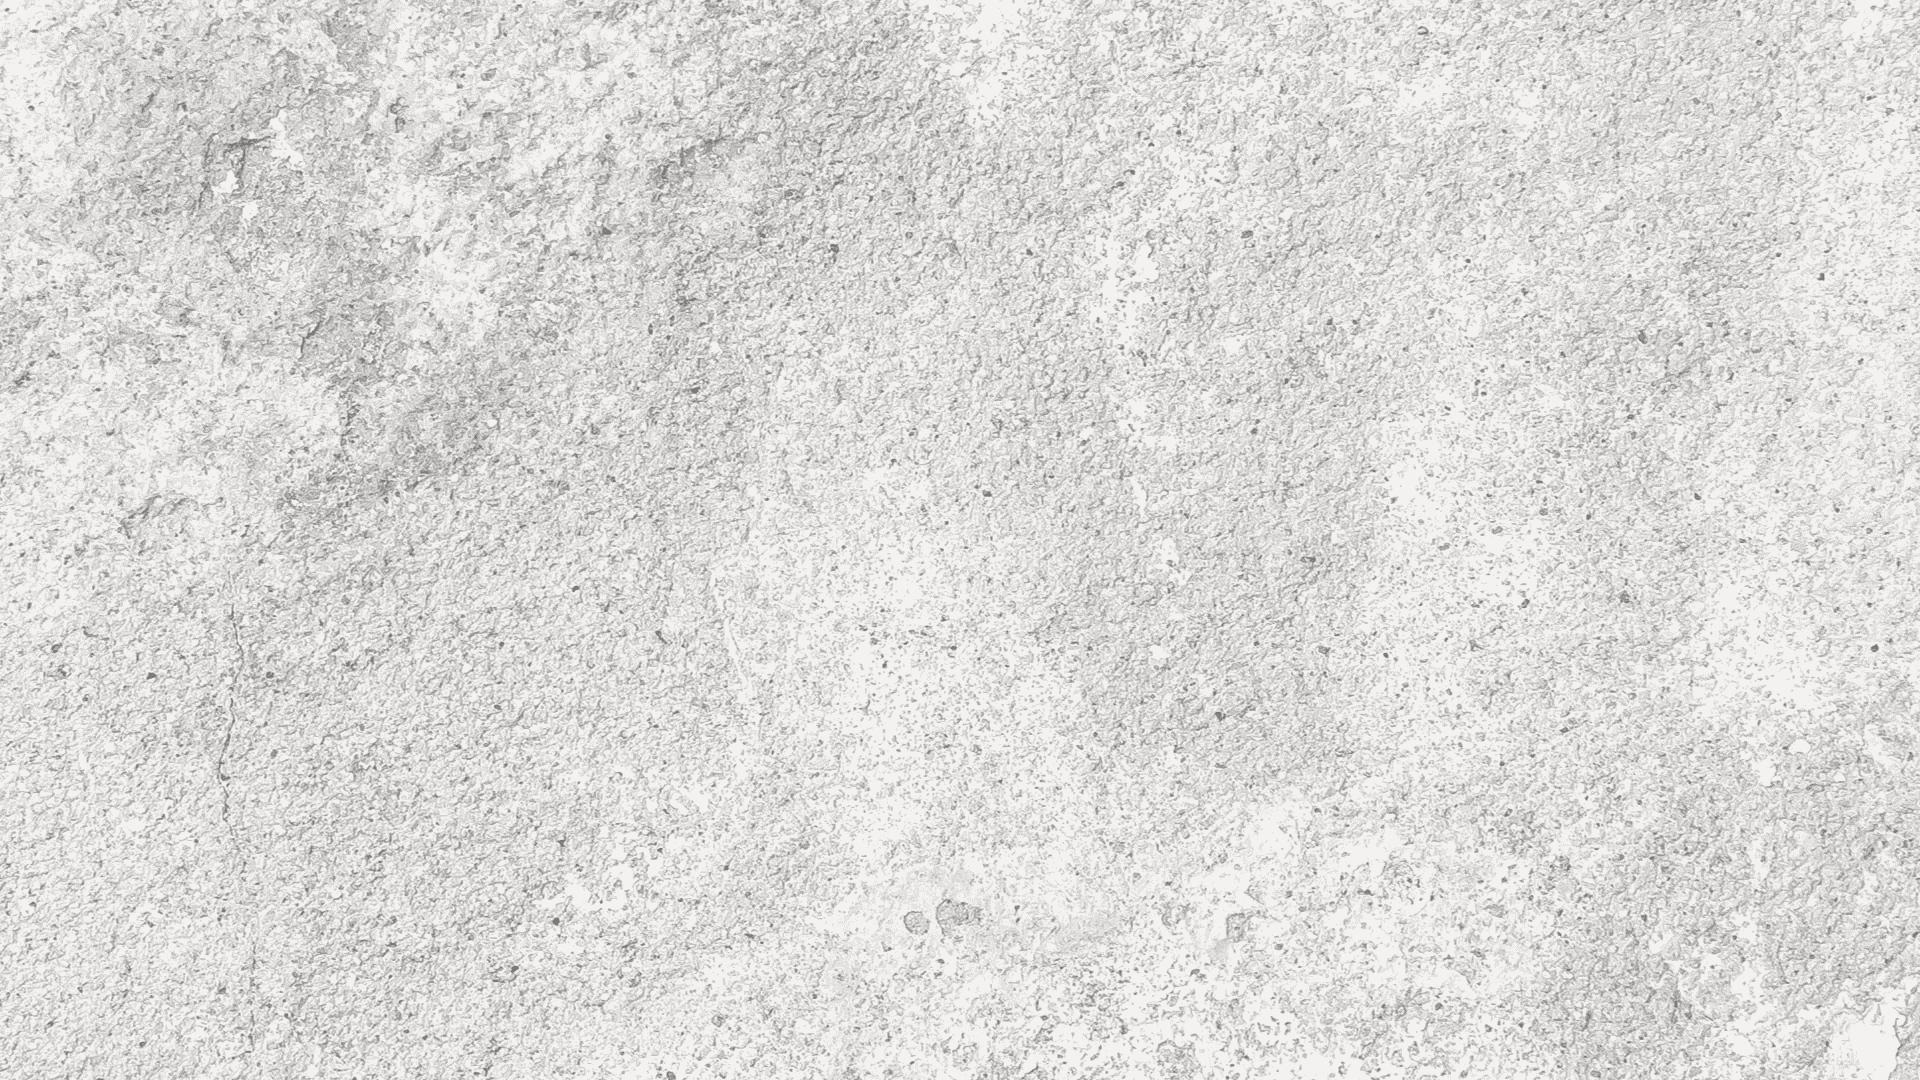
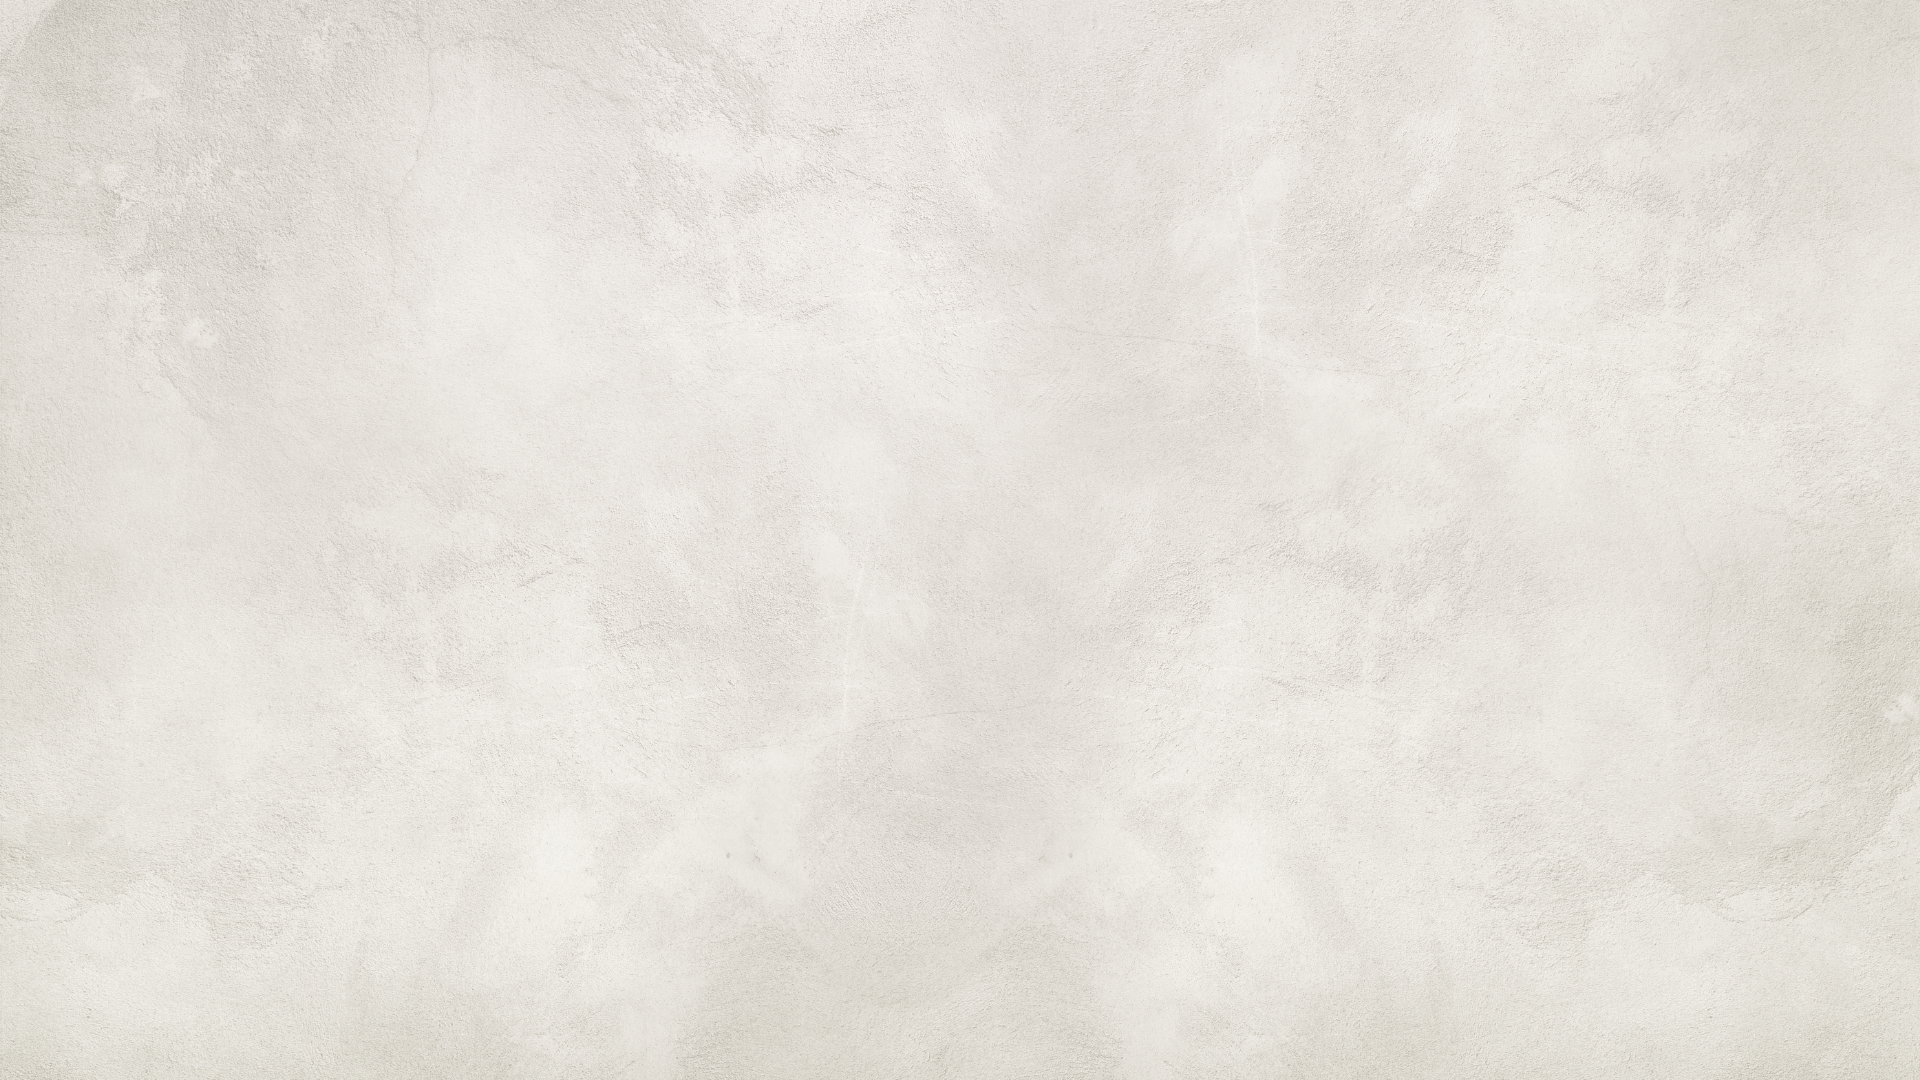
close email input; change bkg

diff --git a/index.html b/index.html
@@ -19,6 +19,9 @@
         </div>
         <div v-if="inputOpen" class="mask">
             <div class="email-input">
+                <div class="close" @click="inputOpen = false">
+                    <span class="close-email">x</span>
+                </div>
                 <!-- <label>С баница се почерпи и късметче получи</label> -->
                 <div>
                     <input type="text" v-model="emailPrefix" placeholder="username" />
@@ -171,14 +174,14 @@
     }
 
     @font-face {
-        font-family: "Robotto";
+        font-family: "Roboto";
         src: url("assets/Roboto-Regular.ttf") format("truetype")
     }
 
     body {
         background: url("assets/bkg.png");
         background-size: cover;
-        font-family: "Robotto";
+        font-family: "Roboto";
     }
 
     #app {
@@ -340,6 +343,12 @@
         display: flex;
         justify-content: center;
         align-items: center;
+    }
+
+    .close-email {
+        background-color: white;
+        padding: .3rem;
+        border-radius: 3px;
     }
 </style>
 
